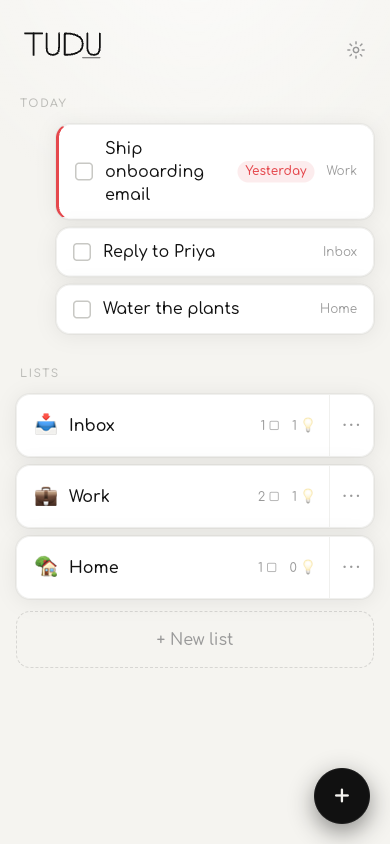
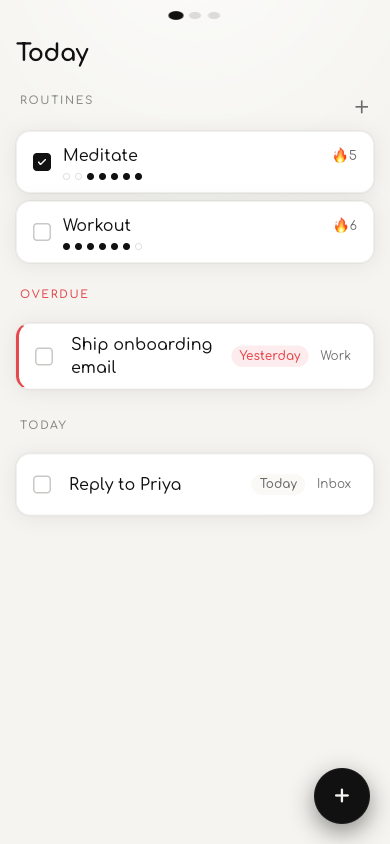
docs: README + Today screenshot for 2.0

diff --git a/README.md b/README.md
@@ -16,10 +16,13 @@ Capture **tasks** and **ideas** into **lists**. A tiny local-first PWA — no ac
 
 ## What it does
 
-- Lists hold both **tasks** (checkbox + optional due date) and **ideas** (free-form notes; first line = title).
-- **Today** view collects due + overdue tasks across every list.
-- ~3-second capture sheet with smart defaults (remembers last type + list).
-- Full-screen autosaving idea editor.
+Three swipeable pages — **Today · Spaces · Ideas** (minimal, lands on Today):
+
+- **Today** — your **routines** (recurring habits with a 🔥 streak + 7-day history) plus every open task across spaces, grouped Overdue / Today / Upcoming.
+- **Routines** keep you consistent: pick the weekdays (default Daily), check them off, watch the streak grow.
+- **Spaces** hold both **tasks** (checkbox + due date, defaulting to today) and **ideas** (free-form notes; first line = title).
+- **Ideas** page aggregates every idea across spaces, each tagged with its space.
+- ~3-second context-aware capture; full-screen autosaving idea editor.
 - JSON **export / import** backup (Settings) — replace-all with confirm.
 - Offline-first, installable; warm monochrome design, light + dark follow your system.
 
